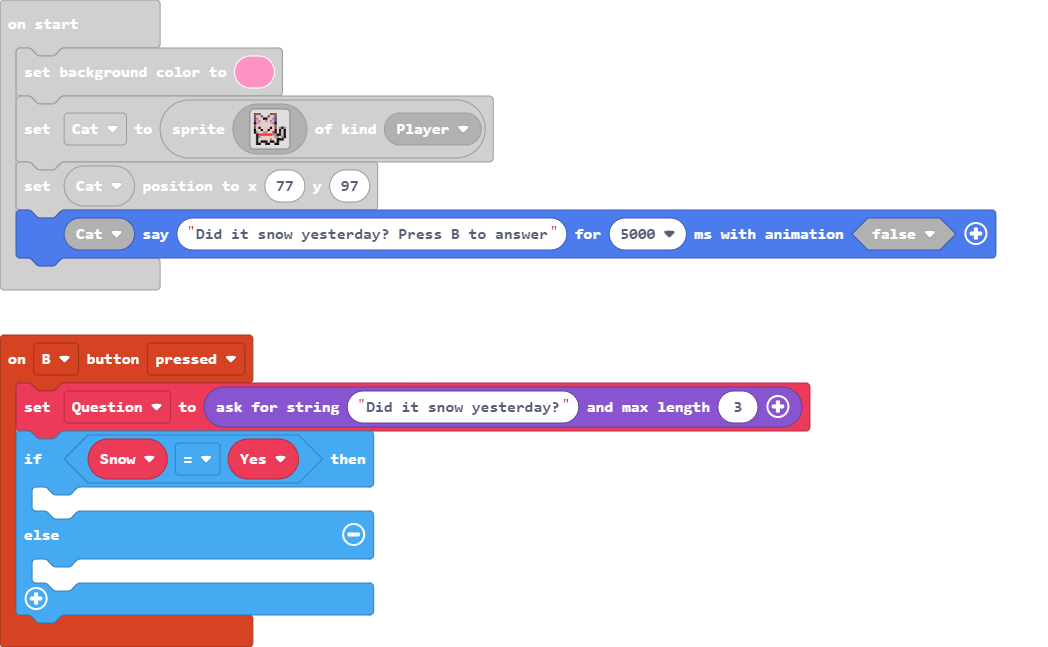
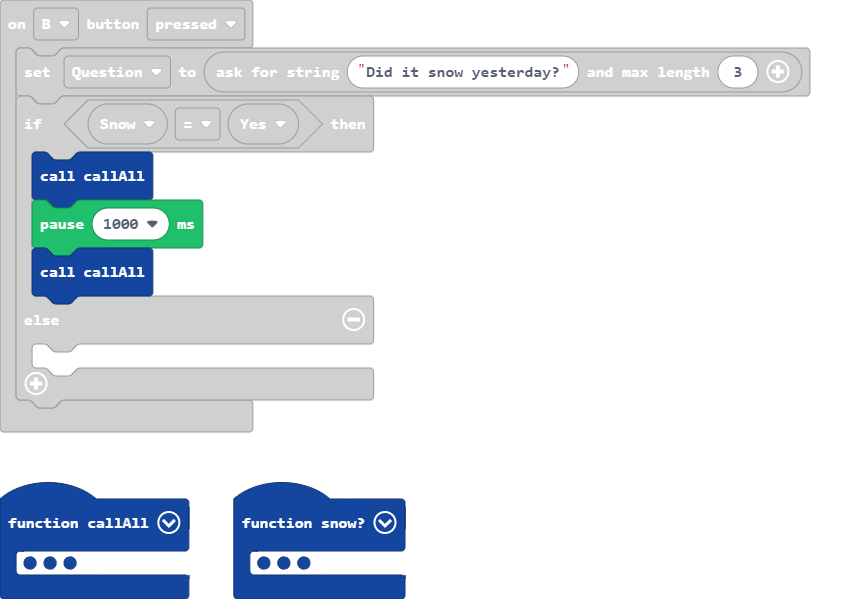
Update main.blocks, main.ts

diff --git a/main.ts b/main.ts
@@ -3,11 +3,48 @@ controller.B.onEvent(ControllerButtonEvent.Pressed, function () {
     let Snow = 0
     Question = game.askForString("Did it snow yesterday?", 3)
     if (Snow == Yes) {
-    	
+        callAll()
+        pause(1000)
+        callAll()
     } else {
     	
     }
 })
+function snow () {
+    for (let index = 0; index < 10; index++) {
+        projectile2 = sprites.createProjectileFromSide(img`
+            . . . . . . . . . . . . . . . . 
+            . . . . . 1 . . . . . . . . . . 
+            . . 1 1 . . . 1 1 1 . . . . . . 
+            . . 1 1 . 1 1 1 1 1 1 1 . . . . 
+            . . . . 1 1 1 1 1 1 1 1 1 . . . 
+            . . . 1 1 1 1 1 1 1 1 1 1 1 . . 
+            . . . 1 1 1 1 1 1 1 1 1 1 1 . . 
+            . . 1 1 1 1 1 1 1 1 1 1 1 1 1 . 
+            . . 1 1 1 1 1 1 1 1 1 1 1 1 1 . 
+            . . 1 1 1 1 1 1 1 1 1 1 1 1 1 . 
+            . . . 1 1 1 1 1 1 1 1 1 1 1 . . 
+            . . . 1 1 1 1 1 1 1 1 1 1 1 . . 
+            . . . . 1 1 1 1 1 1 1 1 1 . . . 
+            . . 1 . . 1 1 1 1 1 1 1 . . . . 
+            . . . . . . . 1 1 1 . . . . 1 . 
+            . . . . . . . . . . . . . . . . 
+            `, randint(0, -50), randint(0, 50))
+    }
+}
+function callAll () {
+    snow()
+    pause(1000)
+    snow()
+    pause(1000)
+    snow()
+    pause(1000)
+    snow()
+    pause(1000)
+    snow()
+    pause(1000)
+}
+let projectile2: Sprite = null
 let Question = ""
 scene.setBackgroundColor(3)
 let Cat = sprites.create(assets.image`Cat`, SpriteKind.Player)
